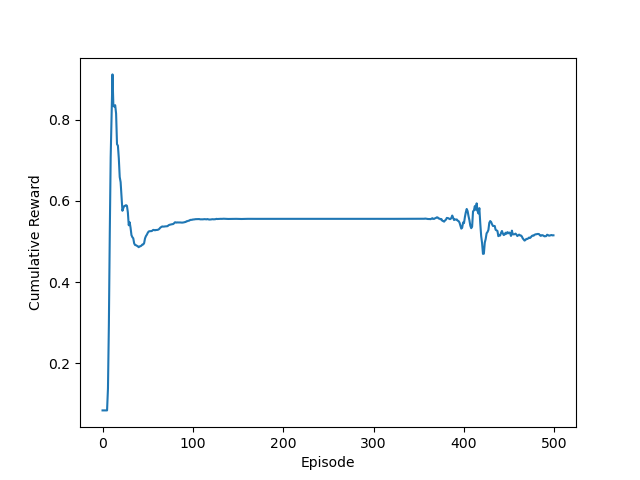
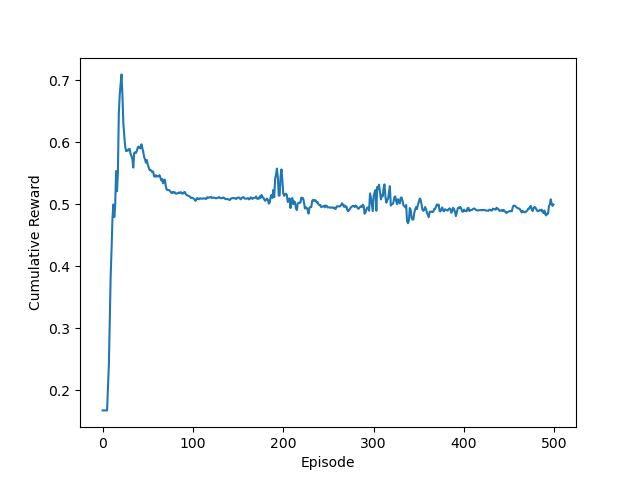
update figures

diff --git a/agent.py b/agent.py
@@ -176,10 +176,11 @@ class ReplayMemory:
 
 
 class DQNAgent(Agent):
-    def __init__(self, environment: Environment, gamma=0.9, alpha=2e-3, epsilon=0.7, capacity=5000):
+    def __init__(self, environment: Environment, gamma=0.9, alpha=2e-3, epsilon=0.7, capacity=5000, batch_size=64):
         super().__init__(environment, gamma, alpha)
         self.epsilon = epsilon
         self.memory = ReplayMemory(capacity=capacity)
+        self.batch_size = batch_size
 
         self.q_network = DQNModel(self.env.states, len(Action))
         self.target_network = DQNModel(self.env.states, len(Action))
@@ -216,9 +217,9 @@ class DQNAgent(Agent):
             return self.get_best_action(state)[0]
 
     def update(self):
-        if len(self.memory) < 64:
+        if len(self.memory) < self.batch_size:
             return
-        transitions = self.memory.sample(64)
+        transitions = self.memory.sample(self.batch_size)
         batch = Transition(*zip(*transitions))
 
         state_batch = np.eye(self.env.states)[list(batch.state)]
@@ -291,7 +292,8 @@ class DQNAgent(Agent):
 
     def get_policy(self):
         with torch.no_grad():
-            one_hot_encoded = np.eye(self.env.states)[self.env.legal_states]
+            states = [x for x in range(self.env.states)]
+            one_hot_encoded = np.eye(self.env.states)[states]
             state_tensor = torch.tensor(one_hot_encoded).float()
             q_values = self.q_network(state_tensor)
             print(q_values)

diff --git a/game.py b/game.py
@@ -34,17 +34,13 @@ class Game:
                 agent.train(150)
             result = self.dp_agents[0].get_result(self.env.start)
             policy = self.dp_agents[0].get_policy()
+            optimal_q_val1 = max(self.dp_agents[0].q_values[self.env.start])
+            optimal_q_val2 = max(self.greedy_agents[0].q_values[self.env.start])
+            print(optimal_q_val1, optimal_q_val2)
+            print(self.dp_agents[0].q_values)
+            print(self.greedy_agents[0].q_values)
 
         self.draw()
-
-        # print("result", result)
-        # result = self.agent.get_result(self.env.axisToState(self.start_position))
-
-        # print(self.dp_agents[0].q_values[self.env.legal_states])
-        # print(res)
-
-        # policy = self.agent.get_policy()
-
         return result, policy
 
     def draw(self):
